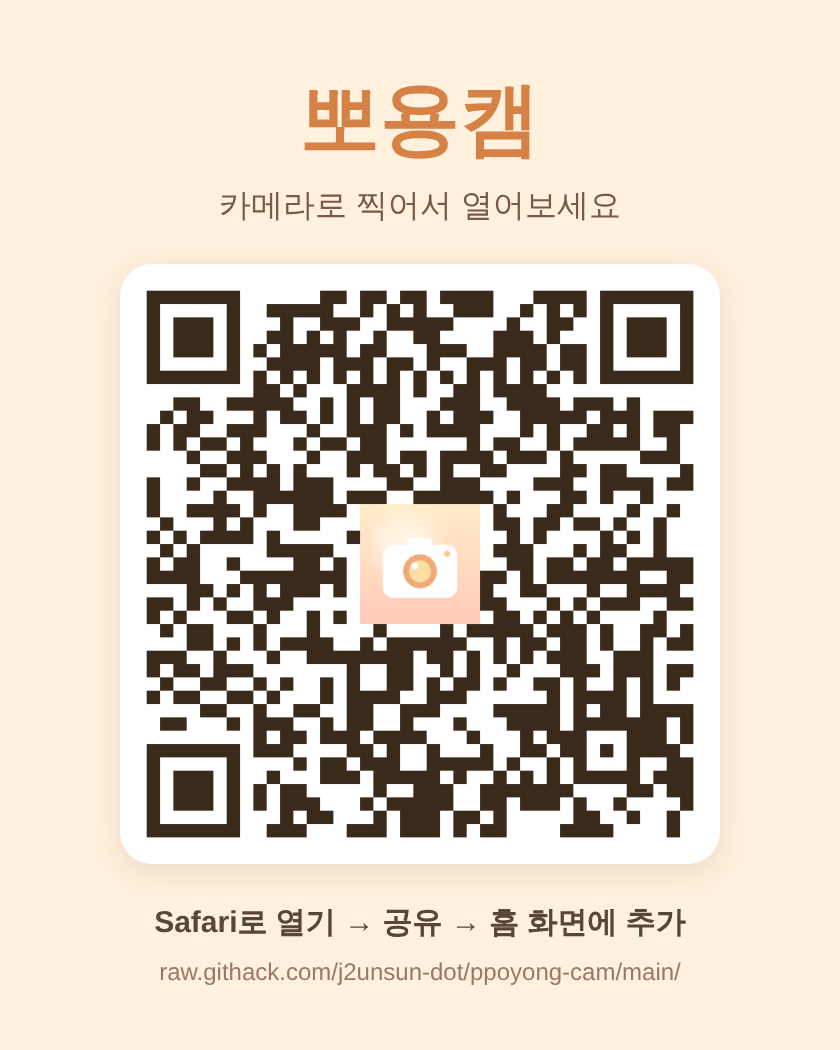
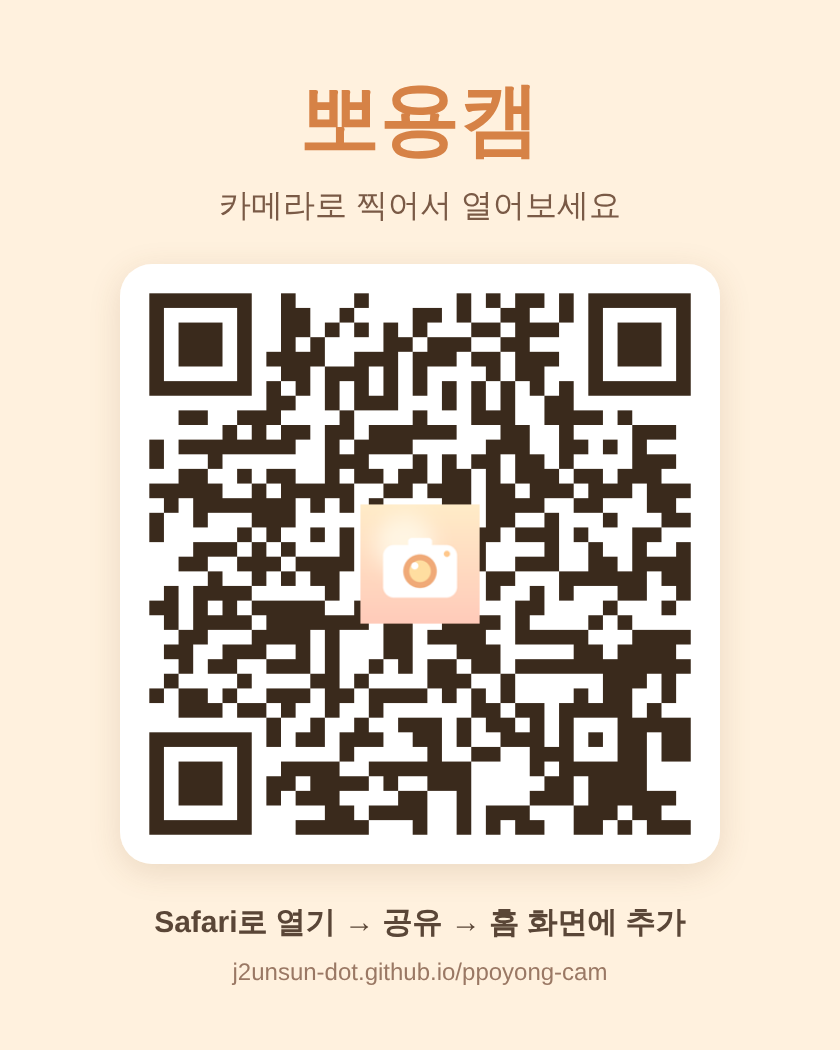
공유 주소를 GitHub Pages로 변경
Claude-Session: https://claude.ai/code/session_01LqXu6t1Q4CFY6dX17ruC7B

Changed region(s): [[0.1548, 0.2743, 0.8357, 0.8229], [0.1857, 0.9143, 0.8048, 0.9448]]

diff --git a/README.md b/README.md
@@ -2,7 +2,7 @@
 
 아이폰 홈 화면에 추가해서 쓰는 필터 카메라 웹앱.
 
-**👉 앱 열기: https://raw.githack.com/j2unsun-dot/ppoyong-cam/main/**
+**👉 앱 열기: https://j2unsun-dot.github.io/ppoyong-cam/**
 
 <img src="icons/share-qr.png" width="260" alt="뽀용캠 QR 코드">
 
